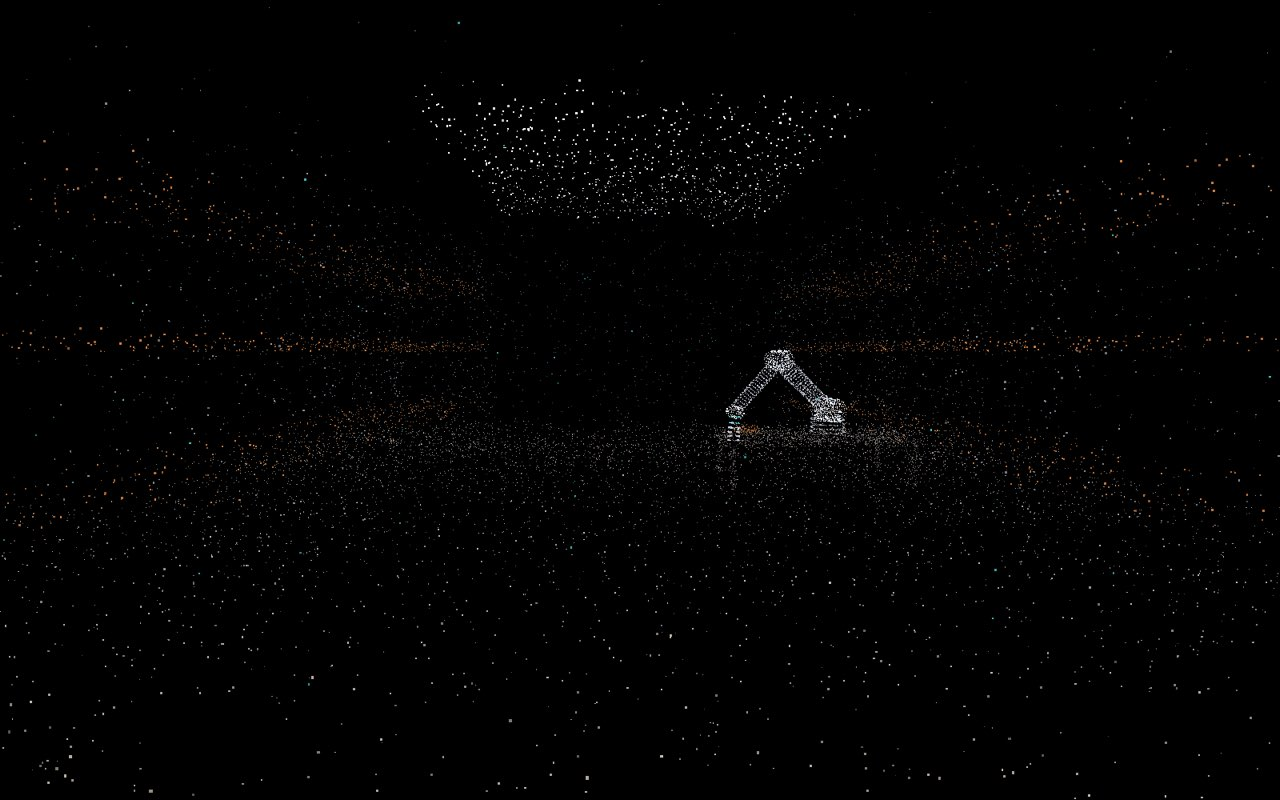
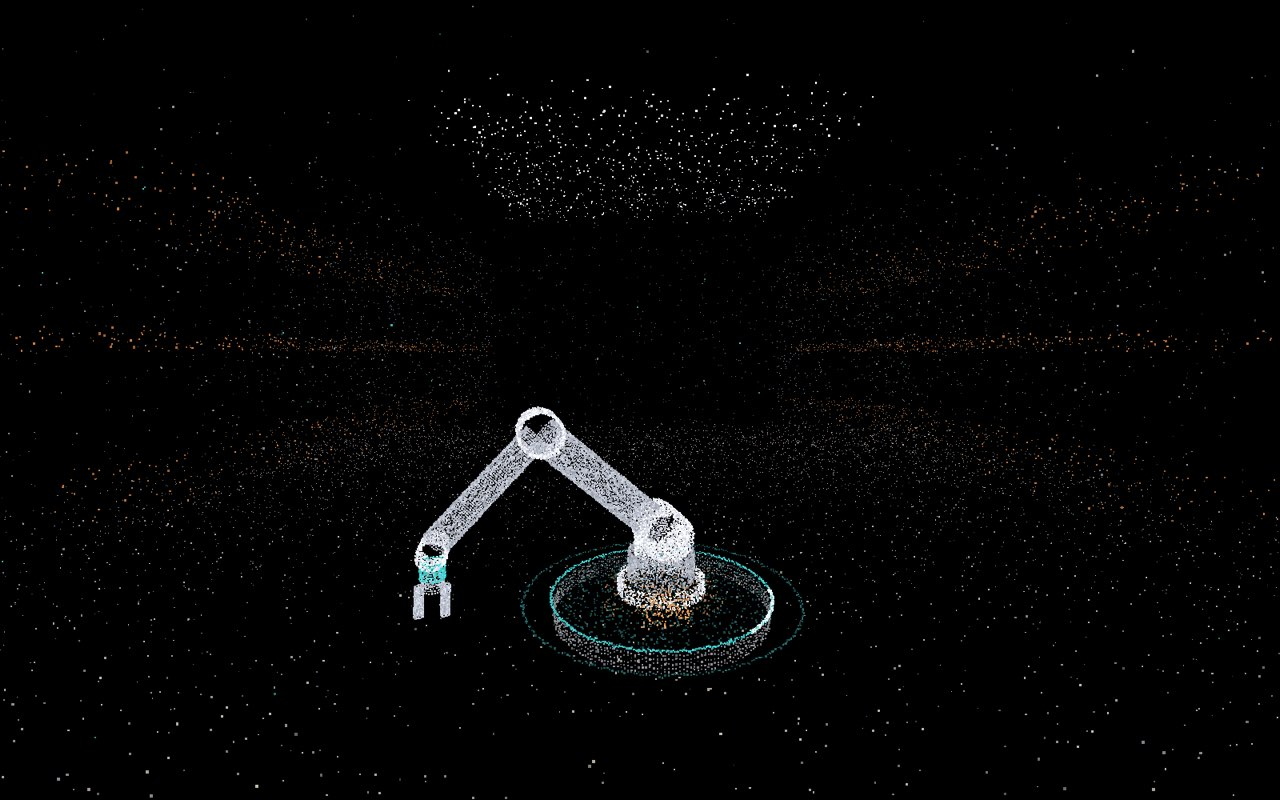
Robot as grounded centerpiece on a scan-turntable; recomposed hero

diff --git a/js/hero.js b/js/hero.js
@@ -72,15 +72,8 @@ export function start(container, opts) {
   /* teal instrument accents */
   for (i = 0; i < 120 * D; i++) pt(rnd(-700, 700), rnd(-260, 240), rnd(-400, 800), 62, 198, 198, rnd(.4, 1.0));
 
-  /* ---- workbench for the manipulator (the arm itself is articulated,
-     built as its own point objects after the material exists) ---- */
-  var BENCH = [152, 147, 138], WARM = [205, 122, 58];
-  for (i = 0; i < 850; i++) pt(rnd(130, 430), 100 + rnd(0, 12), rnd(60, 200), BENCH[0], BENCH[1], BENCH[2], rnd(.6, 1.0), 0, .6, .95);
-  [[142, 72], [418, 72], [142, 188], [418, 188]].forEach(function (leg) {
-    for (var k = 0; k < 70; k++) pt(leg[0] + rnd(-5, 5), rnd(112, 178), leg[1] + rnd(-5, 5), BENCH[0], BENCH[1], BENCH[2], rnd(.55, .9), 0, .55, .85);
-  });
-  /* the workpiece on the bench, in the gripper's work zone */
-  for (i = 0; i < 90; i++) pt(rnd(155, 195), rnd(90, 102), rnd(115, 155), WARM[0], WARM[1], WARM[2], rnd(.6, 1.0), 0, .7, 1.0);
+  /* the robot + its table are built together below as one rig (armRoot),
+     so the machine always sits on its surface. */
   /* drifting dust — atmosphere, must stay quieter than structure */
   for (i = 0; i < 950 * D; i++) pt(rnd(-900, 900), rnd(-320, 250), rnd(-500, 900), 200, 205, 215, rnd(.3, .7), rnd(2, 5), .3, .6);
 
@@ -160,20 +153,43 @@ export function start(container, opts) {
     A.amp.push(0);
     A.seed.push(Math.random());
   }
-  /* cylinder as stacked rings along a local axis, centered at (ox,oy,oz) */
+  /* cylinder as stacked rings along a local axis, centered at (ox,oy,oz).
+     Dense enough that the silhouette reads as a solid scanned part.
+     Brightness lifts with height (yTop) so the rig looks lit from above. */
   function ringCyl(A, axis, ox, oy, oz, r, len, c, vMin, vMax) {
-    var nRings = Math.max(2, Math.round(len / 5));
-    var perRing = Math.max(10, Math.round(r * 1.6));
+    var nRings = Math.max(4, Math.round(len / 1.6));   /* dense: the subject is a high-fidelity scan */
+    var perRing = Math.max(30, Math.round(r * 4.2));
     for (var q = 0; q < nRings; q++) {
       var a = -len / 2 + len * q / (nRings - 1);
       for (var k = 0; k < perRing; k++) {
-        var ang = (k / perRing) * 6.2832 + rnd(-.12, .12);
-        var rr = r * rnd(.94, 1.05);
+        var ang = (k / perRing) * 6.2832 + rnd(-.1, .1);
+        var rr = r * rnd(.96, 1.04);
         var u = Math.cos(ang) * rr, w = Math.sin(ang) * rr;
         if (axis === 'y') partPush(A, ox + u, oy + a, oz + w, c, vMin, vMax);
         else if (axis === 'z') partPush(A, ox + u, oy + w, oz + a, c, vMin, vMax);
         else partPush(A, ox + a, oy + u, oz + w, c, vMin, vMax);
       }
+    }
+  }
+  /* dense planar grid → reads as a genuine solid surface, not a scatter */
+  function slab(A, x0, x1, y0, y1, z0, z1, nx, nz, c, vMin, vMax) {
+    for (var ix = 0; ix < nx; ix++) for (var iz = 0; iz < nz; iz++) {
+      partPush(A, x0 + (x1 - x0) * (ix / (nx - 1)) + rnd(-2, 2),
+                  rnd(y0, y1),
+                  z0 + (z1 - z0) * (iz / (nz - 1)) + rnd(-2, 2), c, vMin, vMax);
+    }
+  }
+  /* filled disc — an ellipse in perspective reads as solid ground at any angle */
+  function disc(A, cx, cy, cz, r, n, c, vMin, vMax) {
+    for (var k = 0; k < n; k++) {
+      var t = Math.random() * 6.2832, rr = Math.sqrt(Math.random()) * r;
+      partPush(A, cx + Math.cos(t) * rr, cy + rnd(-1.5, 1.5), cz + Math.sin(t) * rr, c, vMin, vMax);
+    }
+  }
+  function ring(A, cx, cy, cz, r, n, c, vMin, vMax) {
+    for (var k = 0; k < n; k++) {
+      var t = (k / n) * 6.2832;
+      partPush(A, cx + Math.cos(t) * r * rnd(.99, 1.01), cy + rnd(-1, 1), cz + Math.sin(t) * r * rnd(.99, 1.01), c, vMin, vMax);
     }
   }
   function toPoints(A) {
@@ -186,56 +202,85 @@ export function start(container, opts) {
     return new THREE.Points(g2, mat);
   }
 
-  /* bench top is at mock yDown 100, z 140 → local (x, -100, -140).
-     In portrait the arm is pushed right + down so it clears the centered
-     sentence; landscape/desktop keeps it beside the lockup. */
+  /* The rig sits in armRoot-local space: +y up, tabletop at y=0 (the robot
+     bolts to it), legs drop to the floor (~y-84), robot builds upward.
+     The whole thing moves as a unit so the machine never leaves its table. */
+  var TABLE = [150, 150, 158], WARM = [214, 150, 92], EDGE = [186, 189, 197];
   var armRoot = new THREE.Group();
   function placeArm(aspect) {
-    if (aspect < 0.8) armRoot.position.set(392, -128, -110);
-    else armRoot.position.set(310, -100, -140);
+    if (aspect < 0.8) { armRoot.position.set(12, -300, 20); armRoot.scale.setScalar(0.95); }  /* portrait: lower-frame, below the copy */
+    else { armRoot.position.set(20, -230, 150); armRoot.scale.setScalar(1.35); }              /* landscape: lower-frame centerpiece */
   }
   placeArm(W / H);
   group.add(armRoot);
 
+  /* --- the robot stands on a glowing teal scan-turntable. Teal pops where
+     grey goes invisible, so the ring plants the robot as solid ground at any
+     angle. A bright arc sweeps around it (rotated in frame()) — an active
+     scan in progress, which is exactly the capture story. --- */
+  var A_static = partArrays();
+  disc(A_static, 0, -1, 0, 86, 1000, TEAL2, .26, .5);    /* filled glow platform */
+  ring(A_static, 0, -2, 0, 110, 360, TEAL2, .3, .6);     /* faint outer halo */
+  for (var yy = -4; yy >= -16; yy -= 3) ring(A_static, 0, yy, 0, 86, 220, EDGE, .5, .82); /* platform edge wall */
+  armRoot.add(toPoints(A_static));
+
+  /* the rotating scan plate: bright rim + a hot sweeping arc */
+  var A_scan = partArrays();
+  ring(A_scan, 0, 0, 0, 88, 640, TEAL2, .8, 1.15);       /* bright base rim */
+  for (i = 0; i < 340; i++) {                             /* the sweep arc (bright segment) */
+    var sa = (i / 340) * 0.85;
+    partPush(A_scan, Math.cos(sa) * 88 * rnd(.99, 1.01), rnd(-1, 1), Math.sin(sa) * 88 * rnd(.99, 1.01), [190, 255, 255], 1.05, 1.5);
+  }
+  var scanPlate = toPoints(A_scan);
+  armRoot.add(scanPlate);
+
+  /* warm work-light pool + the part being handled, under the gripper */
+  var A_work = partArrays();
+  for (i = 0; i < 320; i++) partPush(A_work, rnd(-46, 46), rnd(-1, 3), rnd(-38, 42), WARM, .45, .85); /* glow pool on the table */
+  for (i = 0; i < 170; i++) partPush(A_work, rnd(-17, 17), rnd(1, 24), 42 + rnd(0, 26), WARM, .8, 1.15); /* workpiece block */
+  armRoot.add(toPoints(A_work));
+
+  /* --- the articulated arm, base bolted to the tabletop (local y0) --- */
   var j1 = new THREE.Group(); armRoot.add(j1);            /* base yaw */
   var A_base = partArrays();
-  ringCyl(A_base, 'y', 0, 10, 0, 26, 20, STEEL, .7, 1.0); /* pedestal */
-  ringCyl(A_base, 'y', 0, 26, 0, 20, 14, JOINT2, .8, 1.15); /* shoulder drum */
+  ringCyl(A_base, 'y', 0, 6, 0, 34, 12, JOINT2, .8, 1.15);  /* base plate on the table */
+  ringCyl(A_base, 'y', 0, 22, 0, 26, 24, STEEL, .72, 1.05); /* pedestal */
+  ringCyl(A_base, 'y', 0, 40, 0, 21, 16, JOINT2, .85, 1.2); /* shoulder drum */
   j1.add(toPoints(A_base));
 
-  var j2 = new THREE.Group(); j2.position.set(0, 36, 0); j1.add(j2); /* shoulder pitch */
+  var j2 = new THREE.Group(); j2.position.set(0, 50, 0); j1.add(j2); /* shoulder pitch */
   var A_upper = partArrays();
-  ringCyl(A_upper, 'z', 0, 0, 0, 18, 44, JOINT2, .8, 1.2);  /* shoulder knuckle */
-  ringCyl(A_upper, 'y', 0, 62, 0, 12.5, 116, STEEL, .75, 1.1); /* upper tube */
+  ringCyl(A_upper, 'z', 0, 0, 0, 19, 46, JOINT2, .85, 1.2);   /* shoulder knuckle */
+  ringCyl(A_upper, 'y', 0, 64, 0, 13, 120, STEEL, .78, 1.12); /* upper tube */
   j2.add(toPoints(A_upper));
 
-  var j3 = new THREE.Group(); j3.position.set(0, 122, 0); j2.add(j3); /* elbow */
+  var j3 = new THREE.Group(); j3.position.set(0, 126, 0); j2.add(j3); /* elbow */
   var A_fore = partArrays();
-  ringCyl(A_fore, 'z', 0, 0, 0, 15, 38, JOINT2, .8, 1.2);   /* elbow knuckle */
-  ringCyl(A_fore, 'y', 0, 54, 0, 9.5, 100, STEEL, .75, 1.1); /* forearm tube */
+  ringCyl(A_fore, 'z', 0, 0, 0, 16, 40, JOINT2, .85, 1.2);    /* elbow knuckle */
+  ringCyl(A_fore, 'y', 0, 56, 0, 10, 104, STEEL, .78, 1.12);  /* forearm tube */
   j3.add(toPoints(A_fore));
 
-  var j4 = new THREE.Group(); j4.position.set(0, 106, 0); j3.add(j4); /* wrist */
+  var j4 = new THREE.Group(); j4.position.set(0, 110, 0); j3.add(j4); /* wrist */
   var A_wrist = partArrays();
-  ringCyl(A_wrist, 'z', 0, 4, 0, 9, 24, JOINT2, .8, 1.2);   /* wrist knuckle */
-  ringCyl(A_wrist, 'y', 0, 16, 0, 8, 10, TEAL2, .9, 1.15);  /* teal collar */
-  ringCyl(A_wrist, 'y', 0, 25, 0, 7, 8, STEEL, .8, 1.15);   /* palm */
+  ringCyl(A_wrist, 'z', 0, 4, 0, 10, 26, JOINT2, .85, 1.2);   /* wrist knuckle */
+  ringCyl(A_wrist, 'y', 0, 18, 0, 8.5, 12, TEAL2, .95, 1.2);  /* teal collar */
+  ringCyl(A_wrist, 'y', 0, 28, 0, 7.5, 9, STEEL, .82, 1.15);  /* palm */
   j4.add(toPoints(A_wrist));
 
   /* parallel-jaw fingers: separate objects so the gripper can open/close */
   function finger() {
     var A = partArrays();
-    ringCyl(A, 'y', 0, 10, 0, 2.8, 20, STEEL, .8, 1.2);
+    ringCyl(A, 'y', 0, 11, 0, 3, 22, STEEL, .82, 1.2);
     var g3 = new THREE.Group();
-    g3.position.set(0, 28, 0);
+    g3.position.set(0, 30, 0);
     g3.add(toPoints(A));
     j4.add(g3);
     return g3;
   }
   var fingerL = finger(), fingerR = finger();
-  fingerL.position.x = -8.5; fingerR.position.x = 8.5;
+  fingerL.position.x = -9; fingerR.position.x = 9;
 
-  var arm = { j1: j1, j2: j2, j3: j3, j4: j4, fL: fingerL, fR: fingerR };
+  var arm = { j1: j1, j2: j2, j3: j3, j4: j4, fL: fingerL, fR: fingerR, scan: scanPlate };
 
   /* ---------- pointer → world point on the cloud plane ---------- */
   var pointerTarget = new THREE.Vector3(1e5, 1e5, -700);
@@ -349,6 +394,7 @@ export function start(container, opts) {
     var gap = 8.5 - 5 * grip * grip;
     arm.fL.position.x = -gap;
     arm.fR.position.x = gap;
+    arm.scan.rotation.y -= 0.014;                          /* scan sweep circles the platform */
 
     var introK = Math.min(1, (performance.now() - introStart) / 3000);
     if (introK < 1) introPlayed = true;

diff --git a/css/main.css b/css/main.css
@@ -150,7 +150,7 @@ body {
   align-items: center; justify-content: center;
   gap: 2.2rem;
   pointer-events: none;
-  padding: 0 1.5rem;
+  padding: 0 1.5rem 40vh;   /* lift the copy so the robot centerpiece owns the lower frame */
   text-align: center;
 }
 .stage > * { pointer-events: auto; }
@@ -523,12 +523,12 @@ dialog::backdrop {
   .panel { padding: 3rem 1.4rem 1.8rem; width: 94vw; max-height: 90vh; }
   .notify { flex-direction: column; }
   .notify-btn { padding: .85rem 0; }
-  /* the arm shares the text band in portrait — deepen the pocket so the
-     sentence stays crisp over it without hiding the scene */
+  /* the robot sits low on phones; lift the copy into the upper frame */
+  .stage { padding-bottom: 34vh; }
   .scrim {
     background:
-      radial-gradient(ellipse 78% 30% at 50% 55%, rgba(0, 0, 0, .82), transparent 75%),
-      radial-gradient(ellipse 70% 50% at 50% 50%, rgba(0, 0, 0, .5), transparent 74%);
+      radial-gradient(ellipse 82% 34% at 50% 40%, rgba(0, 0, 0, .78), transparent 74%),
+      radial-gradient(ellipse 70% 50% at 50% 42%, rgba(0, 0, 0, .45), transparent 74%);
   }
 }
 

diff --git a/index.html b/index.html
@@ -60,12 +60,6 @@
   <div class="hud-readout">
     <span class="hud-dot"></span>VOL·LIVE — WebGL POINT FIELD
   </div>
-  <div class="hud-track hud-track--arm">
-    <span class="hud-label">MANIPULATOR · 6-AXIS</span>
-  </div>
-  <div class="hud-track hud-track--streak">
-    <span class="hud-label">LIGHT</span>
-  </div>
 </div>
 
 <main class="stage">